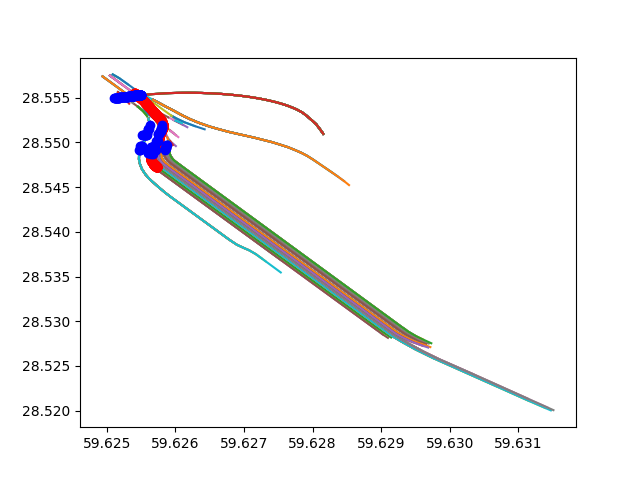
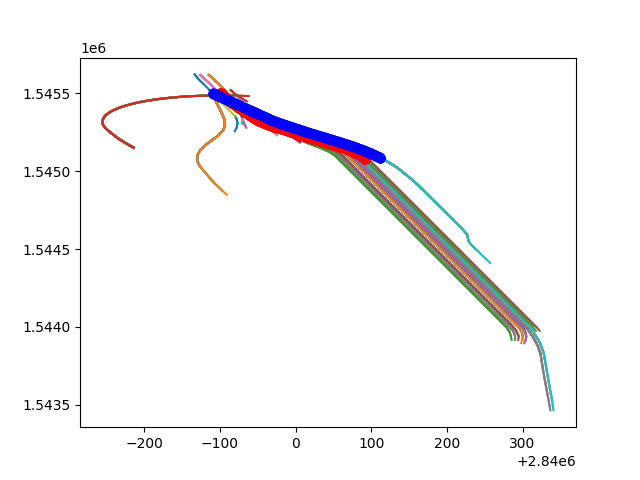
added working algo for map matching

diff --git a/Matcher.py b/Matcher.py
@@ -5,72 +5,28 @@ from numpy.linalg import norm
 import numpy as np
 import matplotlib.pyplot as plt
 from skspatial.objects import Line
-from skspatial.objects import Point
+from PointClass import Point
 """перевести в геоцентрические координаты (pymap3d.ecef)"""
 
 
 class Matcher:
-    def __init__(self,path_to_lines=LINES_PATH, path_to_points=POINTS_PATH, gps_points_path=GPS_POINTS_PATH):
+    def __init__(self, path_to_lines=LINES_PATH, path_to_points=POINTS_PATH, gps_points_path=GPS_POINTS_PATH):
         rail_lines = RailLines(path_to_lines=path_to_lines, path_to_points=path_to_points)
         gps_points = GPSPoints(gps_points_path=gps_points_path)
         self.lines = rail_lines.lines
         self.points = rail_lines.points
         self.gps_points = gps_points.points
 
-    @staticmethod
-    def orthoProjection(points):
-        '''print(points["gps_point"], " - gps")
-        print(points["line_p1"], " - 1")
-        print(points["line_p2"], " - 2")'''
-        ax, ay = points["gps_point"]
-        bx, by = points["line_p1"]
-        cx, cy = points["line_p2"]
-        abx = bx - ax
-        aby = by - ay
-        acx = cx - ax
-        acy = cy - ay
-        t = (abx * acx + aby * acy) / (abx * abx + aby * aby)
-        px = ax + t * abx
-        py = ay + t * aby
-        #print(px, " - X", py, " - Y")
-        return {"coords":[px, py]}
-
-    @staticmethod
-    def orthoProjection_v2(points):
-        #print(points)
-        if points != {}:
-            point = points["gps_point"]
-        else:
-            return {}
-        line = Line(point=points["line_p1"], direction=points["line_p2"])
-        point_projected = line.project_point(point)
-        return {"coords": np.array(point_projected)}
-
-    def print_data(self):
-        print(self.lines)
-        print(self.points)
-
-    @staticmethod
-    def points_sub(p1, p2):
-        return p2-p1
-
     def find_min_dist_among_every_line(self, gps_point):
         points = {}
-        #points = {"gps_point" : gps_point["coords"], "line_p1" : [59.62584952,28.54439231], "line_p2" : [59.62592992,28.54392169]}
         for i in range(len(self.lines)):
             min_dist = 1000
             for j in range(len(self.lines[i]["points"]) - 1):
                 line_points = [self.find_dict(self.lines[i]["points"][j]), self.find_dict(self.lines[i]["points"][j+1])]
-                #print(line_points)
-                cur_dist = self.find_min_dist_v2(np.array(gps_point["coords"]), line_points)
-                print(cur_dist)
-                #print(cur_dist, ' - dist')
-                if cur_dist < min_dist and cur_dist > 0:
-                    #print(cur_dist, " - current dist")
+                cur_dist = self.point_to_segment_distance(gps_point['coords'], line_points[0], line_points[1])
+                if cur_dist < min_dist:
                     min_dist = cur_dist
-                    #print(min_dist, " - min dist")
-                    points = {"gps_point" : gps_point["coords"], "line_p1" : line_points[0], "line_p2" : line_points[1]}
-                    #print(points)
+                    points = {"gps_point" : gps_point, "line_p1" : line_points[0], "line_p2" : line_points[1]}
 
         return points
 
@@ -79,41 +35,58 @@ class Matcher:
         return found_dict["coords"]
 
     @staticmethod
-    def find_min_dist(gps_point, line_points):
-        P2 = line_points[0]
-        P1 = line_points[1]
+    def point_to_segment_projection(points: dict) -> dict:
+        """ Finds point projection on a line segment.
 
-        dist = abs(norm(np.cross(P2 - P1, np.array(gps_point) - P1)))/norm(P2 - P1)
-        return dist
+            Args:
+                points['gps_point']: point from projection is made
+                points['line_p1']: start of the segment
+                points['line_p2']: end of the segment
+            Returns:
+                Point: projection of p to line segment [a,b].
+        """
 
-    def find_min_dist_v2(self, gps_point, line_points):
-        point = self.orthoProjection_v2({"gps_point" : gps_point, "line_p1" : line_points[0], "line_p2" : line_points[1]})
-        ortho_point = point['coords']
-        if min(line_points[0][0],line_points[1][0]) < ortho_point[0] < max(line_points[0][0],line_points[1][0]):
-            if min(line_points[0][1], line_points[1][1]) < ortho_point[1] < max(line_points[0][1], line_points[1][1]):
-                return np.linalg.norm(gps_point - ortho_point)
-            else:
-                return -1
-        else:
-            return -1
+        p = points['gps_point']['coords']
+        b = points['line_p2']
+        a = points['line_p1']
 
-    def draw_full_map(self, new_points):
+        v = b - a
+        res = a + v * (v.dot(p - a) / v.dot(v))
+        return {"coords" : res}
+
+    @staticmethod
+    def point_to_segment_distance(p: Point, a: Point, b: Point) -> float:
+        ab = b - a
+        ap = p - a
+
+        if ap.dot(ab) <= 0.0:  # Point is lagging behind start of the segment, so perpendicular distance is not viable.
+            return ap.norm  # Use distance to start of segment instead.
+
+        bp = p - b
+
+        if bp.dot(ab) >= 0.0:  # Point is advanced past the end of the segment, so perpendicular distance is not viable.
+            return bp.norm  # Use distance to end of the segment instead.
+
+        return (ab.cross(ap)).norm / ab.norm  # Perpendicular distance of point to segment.
+
+    def draw_full_map(self, new_points: list) -> None:
         fig = plt.figure()
+        #ax = fig.add_subplot(111, projection='3d')
         ax = fig.add_subplot(111)
-        RailLines.draw_lines(self.lines,self.points, ax)
-        RailLines.draw_points(self.gps_points, ax,"red")
-        RailLines.draw_points(new_points, ax,'blue')
+        RailLines.draw_lines(self.lines, self.points, ax)
+        RailLines.draw_points(self.gps_points, ax, "red")
+        RailLines.draw_points(new_points, ax, 'blue')
         plt.savefig("res_map_before.png")
         plt.show()
 
-    def match(self):
+    def match(self) -> None:
         res_points = []
+        #print(self.gps_points)
         for gps_point in self.gps_points:
-            #print(gps_point, " - gps_point")
             points = self.find_min_dist_among_every_line(gps_point)
-            #print(points)
-            res_point = self.orthoProjection_v2(points)
-            if self.orthoProjection_v2(points) != {}:
+            res_point = self.point_to_segment_projection(points)
+            #print(res_point, " - res_point")
+            if self.point_to_segment_projection(points) != {}:
                 res_points.append(res_point)
         self.draw_full_map(res_points)
 

diff --git a/PointClass.py b/PointClass.py
@@ -1,0 +1,108 @@
+from math import sqrt
+from numpy import arccos, rad2deg
+import pymap3d as pm
+
+
+class Point:
+    __slots__ = ('x', 'y', 'z')
+
+    # ----------------------------------------------------------------------------------------------
+    def __init__(self, x: float = 0, y: float = 0, z: float = 0):
+        self.x: float = float(x)
+        self.y: float = float(y)
+        self.z: float = float(z)
+
+    # ----------------------------------------------------------------------------------------------
+    def __add__(self, other: "Point") -> "Point":
+        return Point(self.x + other.x,
+                     self.y + other.y,
+                     self.z + other.z)
+
+    # ----------------------------------------------------------------------------------------------
+    def __iadd__(self, other: "Point") -> "Point":
+        self.x += other.x
+        self.y += other.y
+        self.z += other.z
+        return self
+
+    # ----------------------------------------------------------------------------------------------
+    def __sub__(self, other: "Point") -> "Point":
+        return Point(self.x - other.x,
+                     self.y - other.y,
+                     self.z - other.z)
+
+    # ----------------------------------------------------------------------------------------------
+    def __isub__(self, other: "Point") -> "Point":
+        self.x -= other.x
+        self.y -= other.y
+        self.z -= other.z
+        return self
+
+    # ----------------------------------------------------------------------------------------------
+    def __truediv__(self, other: float) -> "Point":
+        return Point(self.x / other,
+                     self.y / other,
+                     self.z / other)
+
+    # ----------------------------------------------------------------------------------------------
+    def __itruediv__(self, other: float) -> "Point":
+        self.x /= other
+        self.y /= other
+        self.z /= other
+        return self
+
+    # ----------------------------------------------------------------------------------------------
+    def __mul__(self, other: float) -> "Point":
+        return Point(self.x * other,
+                     self.y * other,
+                     self.z * other)
+
+    # ----------------------------------------------------------------------------------------------
+    def __imul__(self, other: float) -> "Point":
+        self.x *= other
+        self.y *= other
+        self.z *= other
+        return self
+
+    # ----------------------------------------------------------------------------------------------
+    def __str__(self):
+        return f"Point[x: {self.x}, y: {self.y}, z: {self.z}]"
+
+    # ----------------------------------------------------------------------------------------------
+    def __repr__(self):
+        return str(self)
+
+    # ----------------------------------------------------------------------------------------------
+    def dot(self, other: "Point") -> float:
+        return self.x * other.x + self.y * other.y+self.z * other.z
+
+    # ----------------------------------------------------------------------------------------------
+    def cross(self, other: "Point") -> "Point":
+        return Point(
+            self.y * other.z - self.z * other.y,
+            self.z * other.x - self.x * other.z,
+            self.x * other.y - self.y * other.x
+        )
+
+    # ----------------------------------------------------------------------------------------------
+    @property
+    def norm(self) -> float:
+        return sqrt(self.x ** 2 + self.y ** 2 + self.z ** 2)
+
+    # ----------------------------------------------------------------------------------------------
+    @property
+    def vector(self) -> list:
+        return [self.x, self.y, self.z]
+
+
+    # ----------------------------------------------------------------------------------------------
+    @property
+    def angles(self) -> "Point":
+        tmp = self / self.norm
+        return Point(arccos(tmp.x), arccos(tmp.y), arccos(tmp.z))
+
+    # ----------------------------------------------------------------------------------------------
+    @property
+    def anglesd(self) -> "Point":
+        tmp = self.angles
+        return Point(rad2deg(tmp.x), rad2deg(tmp.y), rad2deg(tmp.z))

diff --git a/BasicMap.py b/BasicMap.py
@@ -1,39 +1,42 @@
 import pymap3d as pm
+from PointClass import Point
 
 class BasicMap:
     @staticmethod
-    def line_transform(lines):
+    def line_transform(lines) -> list:
         res = []
         for i in range(len(lines)):
             res.append({"line_id": lines["{}".format(i)]["line_id"], "points": lines["{}".format(i)]["point_ids"]})
         return res
 
     @staticmethod
-    def point_transform(dict_point):
+    def point_transform(dict_point: dict) -> list:
         res = []
         for i in range(len(dict_point)):
-            #x, y, z = pm.geodetic2ecef(dict_point["{}".format(i)]["latitude"], dict_point["{}".format(i)]["longitude"],
-            #                           0)
-            x, y = dict_point["{}".format(i)]["latitude"], dict_point["{}".format(i)]["longitude"]
+            point = Point(*pm.geodetic2ecef(dict_point["{}".format(i)]["latitude"], dict_point["{}".format(i)]["longitude"],
+                                       dict_point["{}".format(i)]["height"]))
+            #rint(point)
             res.append({"id": dict_point['{}'.format(i)]["point_id"],
-                        "coords": [x, y]})#,
-                                   #dict_point["{}".format(i)]["height"]]})
+                        "coords": point})
         return res
 
     @staticmethod
-    def draw_points(points, ax,color):
+    def draw_points(points: list, ax, color: str) -> None:
         for point in points:
-            #print(point["coords"][0],point["coords"][1])
-            ax.plot(point["coords"][0],point["coords"][1],'ro', color=color)
+            #ax.plot(point["coords"][0], point["coords"][1], point["coords"][2], 'ro', color=color)
+            ax.plot(point['coords'].x, point['coords'].y, 'ro', color=color)
 
     @staticmethod
-    def draw_lines(lines, points, ax):
+    def draw_lines(lines: dict, points: list, ax) -> None:
         for i in range(len(lines)):
-            latitude = []
-            longitude = []
+            x = []
+            y = []
+            z = []
             for point_id in lines[i]["points"]:
                 for true_point in points:
                     if true_point['id'] == point_id:
-                        latitude.append(true_point["coords"][0])
-                        longitude.append(true_point["coords"][1])
-                        ax.plot(latitude, longitude)
+                        x.append(true_point["coords"].x)
+                        y.append(true_point["coords"].y)
+                        #z.append(true_point["coords"][2])
+                #ax.plot(x, y, z)
+                ax.plot(x, y)

diff --git a/GPSPoints.py b/GPSPoints.py
@@ -2,9 +2,10 @@ from utils import get_json
 from constants import GPS_POINTS_PATH
 from BasicMap import BasicMap
 import pymap3d as pm
+from PointClass import Point
 
 class GPSPoints(BasicMap):
-    def __init__(self,gps_points_path):
+    def __init__(self, gps_points_path):
         self.points = self.point_transform(get_json(gps_points_path))
 
     def __len__(self):
@@ -14,8 +15,9 @@ class GPSPoints(BasicMap):
     def point_transform(dict_point):
         res = []
         for i in range(len(dict_point)):
-            #x, y, z = pm.geodetic2ecef(dict_point["{}".format(i)]["latitude"], dict_point["{}".format(i)]["longitude"], 0)
-            x, y = dict_point["{}".format(i)]["latitude"], dict_point["{}".format(i)]["longitude"]
+            point = Point(
+                *pm.geodetic2ecef(dict_point["{}".format(i)]["latitude"], dict_point["{}".format(i)]["longitude"],
+                                  dict_point["{}".format(i)]["height"]))
             res.append({"id": i,
-                        "coords": [x, y]})
+                        "coords": point})
         return res

diff --git a/utils.py b/utils.py
@@ -1,7 +1,7 @@
 import json
 
 
-def get_json(path):
+def get_json(path: str):
     with open(path, 'r') as f:
         data = json.load(f)
     return data
